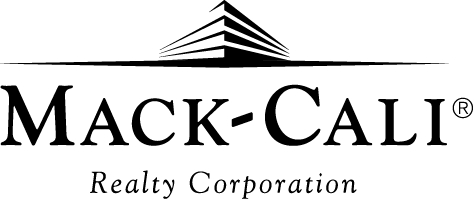
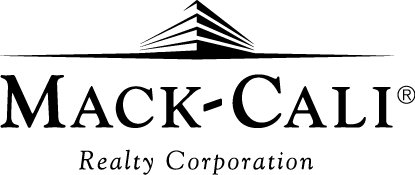
crazy last minute copy edits and css tweaks, this should really really be the last commit but who knows.

diff --git a/src/components/Testex.jsx b/src/components/Testex.jsx
@@ -19,7 +19,7 @@ export default class MobileProperties extends React.Component {
             of New York City views. Spanning 4.3 million square feet of office
             and retail space, and with another 1.1 million square feet planned,
             Harborside and its six state-of-the-art class A buildings underscore
-            the distinctive character of the Jersey City Waterfront— an unrivaled
+            the distinctive character of the Jersey City Waterfront—an unrivaled
             destination.
           </div>
 
@@ -42,13 +42,12 @@ export default class MobileProperties extends React.Component {
             <div className='mobile-bubble-copy'>The extended promenade offers waterfront
               dining and retail options, designated areas for events, pop-ups and programming,
               and multiple viewing points with spectacular unobstructed views of New York City.
-              of New York City.
             </div>
           </li>
 
           <li><div id='mob-green' className='mobile-bubble'></div>
           <div className='mobile-bubble-copy'>Jersey City Ranks 5th for best public
-             transportation in the U.S. &mdash;Business Insider
+             transportation in the U.S. <br/>&mdash;Business Insider
           </div>
         </li>
           </ul>
@@ -60,9 +59,7 @@ export default class MobileProperties extends React.Component {
               <div className='property-subtitle'>WEEHAWKEN, NEW JERSEY</div>
               <div className='property-mob-copy'>
                 <p>
-                  2017 ANNUAL REPORT Weehawken Ranked #1 Best Places to Raise
-                  a Family in Hudson County Source: Niche Media 2018 Best Places
-                  West New York Earns Walk Score: 94 Source: Walk Score For three
+                  For three
                   decades, Roseland, a subsidiary of Mack-Cali, has played an integral
                   role in the creation of the Port Imperial neighborhood, and the
                   revitalization of the Hudson River waterfront in Weehawken and
@@ -84,12 +81,12 @@ export default class MobileProperties extends React.Component {
                 <li><div id='mob-orange' className='mobile-bubble'></div>
                 <div className='mobile-bubble-copy'>
                   Weehawken Ranked #1 Amongst Best Places to Raise a Family in
-                  Hudson County —Niche Media 2018 Best Places
+                  Hudson County<br/>—Niche Media 2018 Best Places
                 </div>
               </li>
 
               <li><div id='mob-aqua' className='mobile-bubble'></div>
-              <div className='mobile-bubble-copy'>West New York Earns Walk Score: 94 &mdash;Walk Score</div></li>
+              <div className='mobile-bubble-copy'>West New York Earns Walk Score: 94<br/>&mdash;Walk Score</div></li>
 
               <li><div id='mob-purple' className='mobile-bubble'></div>
                 <div className='mobile-bubble-copy'>Roseland has more than 2,000
@@ -108,7 +105,7 @@ export default class MobileProperties extends React.Component {
               several of our core office properties—ones that we consider
               prime opportunities in transit-oriented markets. We upgraded
               every touchpoint of the tenant experience—from what they see
-              when they first walk into the building ’ s lobby, to where
+              when they first walk into the building’s lobby, to where
               and what they eat for lunch, and how they work out in the
               afternoon.
             </p>

diff --git a/src/components/SplashPage.jsx b/src/components/SplashPage.jsx
@@ -17,7 +17,7 @@ class SplashPage extends React.Component {
 
         <Link to='/Stockholders'><div className='splash-image-container'>
           <img className='splash-image' src={splashImage}/>
-          <div className='read-stockholders'>READ STOCKHOLDER'S LETTER
+          <div className='read-stockholders'>READ STOCKHOLDERS LETTER
             <img className='arrow' src={arrow}/>
           </div>
         </div></Link>

diff --git a/src/components/newNav.jsx b/src/components/newNav.jsx
@@ -67,7 +67,7 @@ class MyNavbar extends React.Component {
                   activeClassName="active"
                   to="/Stockholders"
                 >
-                  Stockholders&#39; Letter
+                  Stockholders Letter
                 </NavLink>
               </NavItem>
               <NavItem className="flex-md-fill text-md-center" onClick={this.toggle}>

diff --git a/src/assets/stylesheets/YearEndHighlight.css b/src/assets/stylesheets/YearEndHighlight.css
@@ -46,7 +46,7 @@
     font-size: 32px;
     margin-top: 40px;
     height: 50px;
-    margin-bottom: 10px;
+    margin-bottom: 20px;
   }
 
   #title-row {

diff --git a/src/assets/stylesheets/Navbar.css b/src/assets/stylesheets/Navbar.css
@@ -51,7 +51,7 @@ a:hover {
 
 #mack-logo {
   margin-left: 50px;
-  height: 110px;
+  width: 200px;
   padding: 5px;
   padding-left: 1rem;
 }

diff --git a/src/App.css b/src/App.css
@@ -41,6 +41,7 @@
 
 .download-labels {
   margin: 7px 0px;
+  min-width: 142px;
 }
 
 @media screen and (max-width: 1000px) {
